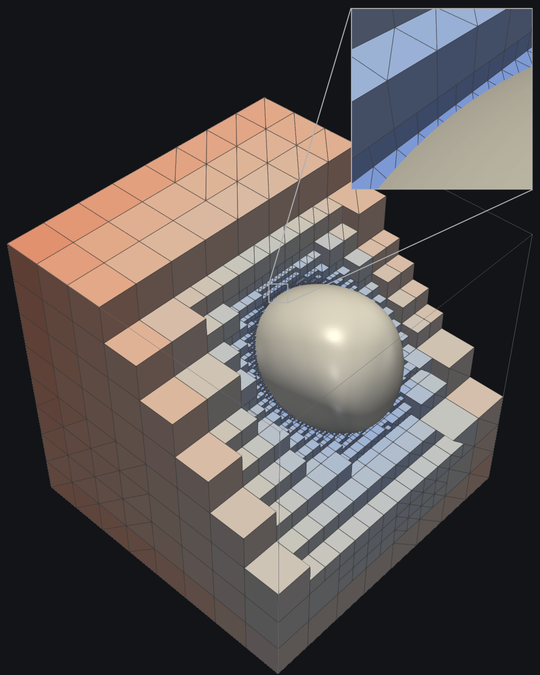
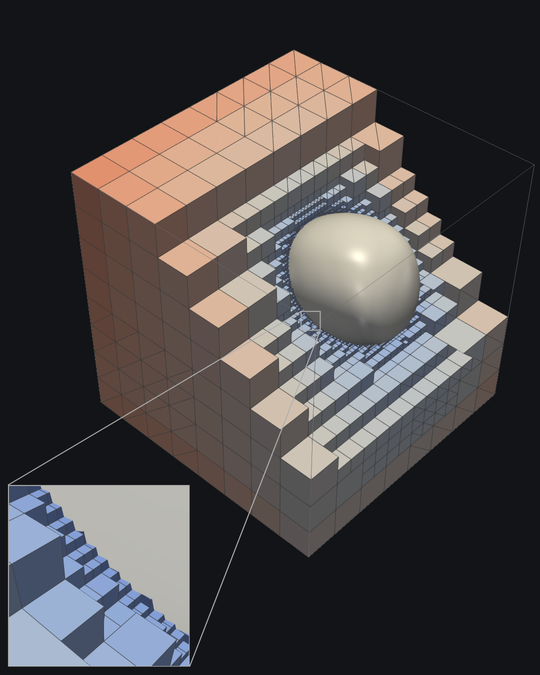
gpu_advection_visualization: zoom at the lower left of the sphere, inset in the bottom left corner [with assistance from claude] [created with claude]
The zoom now shows the staircase of hexahedra at the lower left of the sphere, with more ambient light on the sphere. The inset moved to the bottom left corner, the main view is a bit smaller and moved to the top right to make room. README and images are updated (images rendered from the v50 data with the new scripts).

diff --git a/cases/gpu_advection_visualization/postprocessing/advect_scene.py b/cases/gpu_advection_visualization/postprocessing/advect_scene.py
@@ -8,7 +8,7 @@ library path, otherwise pvpython picks up libraries from the module system:
 
 'state' writes a ParaView state file for the GUI. 'render' writes one PNG per time step
 (frame_NNN.png) for the steps first, first+stride, ... up to last (inclusive). With --inset each frame also
-gets a zoom into the refinement band in the top right corner. Several render processes with disjoint
+gets a zoom into the refinement band in the bottom left corner. Several render processes with disjoint
 step ranges can run at the same time, see make_video.sh. The inset needs PIL (Pillow) in pvpython.
 """
 import builtins
@@ -39,23 +39,26 @@ BACKGROUND = [0.075, 0.08, 0.09]
 EDGE_COLOR = [0.22, 0.22, 0.22]
 ISO_COLOR = [0.93, 0.92, 0.88]
 OUTLINE_COLOR = [0.42, 0.42, 0.42]
-CAMERA_POSITION = [2.44, 2.33, 3.11]
-CAMERA_FOCAL_POINT = [0.44, 0.44, 0.56]
+CAMERA_POSITION = [2.872, 2.601, 3.232]
+CAMERA_FOCAL_POINT = [0.632, 0.484, 0.376]
 CAMERA_VIEW_UP = [0.0, 0.0, 1.0]
 CAMERA_VIEW_ANGLE = 30.0
-# Zoom into the refinement band (inset in the top right corner of the frame, option --inset).
+# Zoom into the refinement band (inset in the bottom left corner of the frame, option --inset).
 # The inset camera looks in the same direction as the main camera at a point on the cut face:
 # the point of the interface on the cutting plane that lies farthest in the in-plane direction
 # INSET_DIRECTION, moved by INSET_GAP further out. So it follows the sphere and its deformation.
 # The zoomed region is marked by a frame in the main image, connected to the inset by two lines.
 INSET_RESOLUTION = [360, 360]
 INSET_MARGIN = 16
-INSET_DIRECTION = [0.0, -0.7071, 0.7071]
+# Lower left of the sphere in the main image (hexahedral part of the mesh).
+INSET_DIRECTION = [0.962, 0.193, -0.193]
 INSET_GAP = 0.005
 # Magnification of the inset relative to the main image (pixel size of a feature in the inset / in the main image).
 INSET_ZOOM = 10.0
 INSET_LINE_COLOR = (176, 176, 176)
 INSET_LINE_WIDTH = 2
+# Ambient light of the interface in the inset, the zoomed side of the sphere is in the shade.
+INSET_ISO_AMBIENT = 0.4
 
 
 def data_files(data_dir):
@@ -258,7 +261,10 @@ def save_inset(view, time, frame_file, zoom=INSET_ZOOM):
   inset_file = frame_file.replace("frame_", "inset_")
   view.CameraFocalPoint = focal
   view.CameraPosition = [focal[i] + distance * back[i] for i in range(3)]
+  iso_rep = GetDisplayProperties(FindSource("interface_cut_side"), view)
+  iso_rep.Ambient = INSET_ISO_AMBIENT
   SaveScreenshot(inset_file, view, ImageResolution=INSET_RESOLUTION, CompressionLevel="3")
+  iso_rep.Ambient = 0.0
   view.CameraPosition = CAMERA_POSITION
   view.CameraFocalPoint = CAMERA_FOCAL_POINT
 
@@ -272,8 +278,8 @@ def save_inset(view, time, frame_file, zoom=INSET_ZOOM):
     q = [sum_row(matrix, row, p) for row in range(4)]
     region.append(((q[0] / q[3] + 1) / 2 * RESOLUTION[0], (1 - q[1] / q[3]) / 2 * RESOLUTION[1]))
   # Corners of the inset, with a border of INSET_LINE_WIDTH around the image.
-  x0 = RESOLUTION[0] - INSET_MARGIN - INSET_RESOLUTION[0] - INSET_LINE_WIDTH
-  y0 = INSET_MARGIN
+  x0 = INSET_MARGIN
+  y0 = RESOLUTION[1] - INSET_MARGIN - INSET_RESOLUTION[1] - 2 * INSET_LINE_WIDTH
   x1 = x0 + INSET_RESOLUTION[0] + 2 * INSET_LINE_WIDTH - 1
   y1 = y0 + INSET_RESOLUTION[1] + 2 * INSET_LINE_WIDTH - 1
   box = [(x0, y0), (x1, y0), (x1, y1), (x0, y1)]

diff --git a/cases/gpu_advection_visualization/README.md b/cases/gpu_advection_visualization/README.md
@@ -42,8 +42,9 @@ is offloaded to the GPU with OpenMP `target`.
   color range of ±0.25 for all time steps.
 * The light surface is the interface $\varphi = 0$ on the removed side of the plane. Therefore the half sphere sits on
   the cut face. Around it you see the band of fine elements (refinement level up to 7) as a ring on the cut face.
-* The window in the top right corner zooms (10 times) into the refinement band on the cut face just above the sphere,
-  where the elements become finer towards the interface. The small frame in the main image marks the zoomed region.
+* The window in the bottom left corner zooms (10 times) into the refinement band on the cut face at the lower left of
+  the sphere. There, in the hexahedral part of the mesh, the elements become finer towards the interface like a
+  staircase. The small frame in the main image marks the zoomed region.
 * During the run, the sphere moves along a loop and is deformed by the flow (middle image). At the end it is almost
   back at its start. You can watch the refinement band move with the interface and the mesh coarsen behind it.
 
@@ -168,9 +169,10 @@ at the top of the file.
   the points, resamples them to a uniform 256³ grid, smooths them with a Gaussian filter
   (σ ≈ 0.013, removes ripples from the jumps at hanging faces) and then extracts $\varphi = 0$.
 * The zoom (option `--inset` of `advect_scene.py` and `make_video.sh`): a second camera looks from the same direction,
-  10 times magnified, at the interface on the cut face just above the sphere. Its target is the outermost point of
+  10 times magnified, at the interface on the cut face at the lower left of the sphere. Its target is the outermost point of
   the intersection of the interface with the cutting plane, so it follows the sphere and its deformation.
-  The zoom is placed in the top right corner of each frame, and a frame with two connecting lines marks the zoomed region
+  The sphere gets more ambient light in the zoom, since this side is in the shade.
+  The zoom is placed in the bottom left corner of each frame, and a frame with two connecting lines marks the zoomed region
   in the main image (drawn with Pillow). The state file contains only the main view.
 ## Dependencies
 
